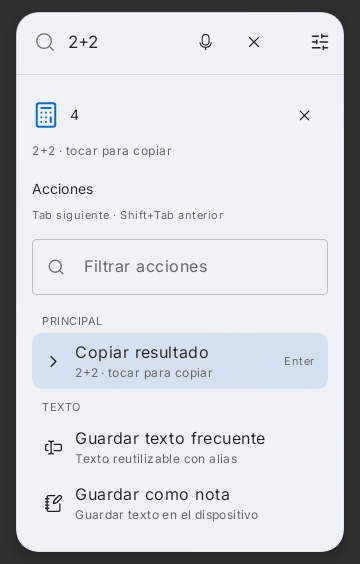
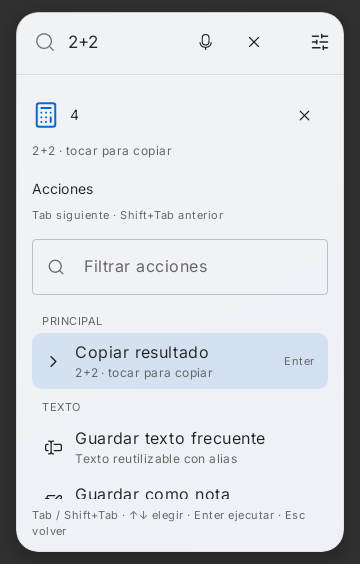
fix: keep contextual actions and keyboard hints inside the preview

Changed region(s): [[0.0917, 0.8741, 0.7639, 0.9645], [0.7944, 0.9043, 0.8556, 0.9344]]

diff --git a/app/src/main/java/dev/bautista/spotlight/ui/ActionPanelView.kt b/app/src/main/java/dev/bautista/spotlight/ui/ActionPanelView.kt
@@ -26,7 +26,7 @@ data class ContextAction(val title:String,val description:String,val icon:ImageV
     val requests=remember(visible.map{it.title}){List(visible.size){if(it==0)focus else FocusRequester()}}
     LaunchedEffect(filter){selected=0}
     LaunchedEffect(selected,filterFocused,visible.map{it.title}){if(!filterFocused){withFrameNanos{ };runCatching{requests.getOrNull(selected)?.requestFocus()}}}
-    Column(Modifier.fillMaxWidth().onPreviewKeyEvent{e->
+    Column(Modifier.fillMaxWidth().heightIn(max=GlassTokens.actionPanelMaxHeight).onPreviewKeyEvent{e->
         if(e.type!=KeyEventType.KeyDown || e.isCtrlPressed || e.isMetaPressed)false else when(e.key){
             Key.Tab->{filterFocused=false;selected=if(visible.isEmpty())0 else Math.floorMod(selected+if(e.isShiftPressed)-1 else 1,visible.size);true}
             Key.DirectionDown->{filterFocused=false;selected=(selected+1).coerceAtMost((visible.size-1).coerceAtLeast(0));true}
@@ -39,7 +39,7 @@ data class ContextAction(val title:String,val description:String,val icon:ImageV
         Text("Tab siguiente · Shift+Tab anterior", style = MaterialTheme.typography.labelSmall,
             color = MaterialTheme.colorScheme.onSurfaceVariant)
         OutlinedTextField(filter,{filter=it.take(120)},label={Text("Filtrar acciones")},singleLine=true,modifier=Modifier.fillMaxWidth().onFocusChanged{filterFocused=it.isFocused},leadingIcon={Icon(CommandIcons.Search,null,Modifier.size(18.dp))})
-        Column(Modifier.fillMaxWidth().heightIn(max=240.dp).verticalScroll(rememberScrollState())){
+        Column(Modifier.fillMaxWidth().weight(1f, fill=false).heightIn(max=240.dp).verticalScroll(rememberScrollState())){
             var previous=""
             visible.forEachIndexed{i,action->
                 val group=if(all.firstOrNull()==action)"Principal" else action.group

diff --git a/app/src/test/java/dev/bautista/spotlight/ui/QuickLookTouchTargetTest.kt b/app/src/test/java/dev/bautista/spotlight/ui/QuickLookTouchTargetTest.kt
@@ -47,8 +47,11 @@ class QuickLookTouchTargetTest {
         ui.onNode(hasSetTextAction()).performKeyInput { pressKey(Key.Tab) }
         ui.waitUntil(15000) { ui.onAllNodesWithContentDescription("Cerrar vista rápida").fetchSemanticsNodes().isNotEmpty() }
         ui.waitForIdle()
+        ui.onNodeWithText("Copiar resultado").assertIsDisplayed()
+        ui.onNodeWithText("Tab / Shift+Tab · ↑↓ elegir · Enter ejecutar · Esc volver").assertIsDisplayed()
         ui.onRoot().captureRoboImage("build/091-ui/f2-close-$device.png",
             roborazziOptions = RoborazziOptions(taskType = RoborazziTaskType.Record))
+        ui.onNodeWithText("Guardar como nota").performScrollTo().assertIsDisplayed()
         ui.onNodeWithContentDescription("Cerrar vista rápida")
             .assertWidthIsAtLeast(48.dp).assertHeightIsAtLeast(48.dp)
             .performTouchInput { click(Offset(4f, center.y)) }

diff --git a/app/src/main/java/dev/bautista/spotlight/ui/GlassTokens.kt b/app/src/main/java/dev/bautista/spotlight/ui/GlassTokens.kt
@@ -13,6 +13,7 @@ import dev.bautista.spotlight.data.Config
 
 object GlassTokens {
     val small=8.dp;val gap=12.dp;val inset=18.dp;val hit=48.dp
+    val actionPanelMaxHeight=360.dp
     const val selectionMs=90
     fun selectionDuration(c:Config)=when(c.movement){"precise"->55;"liquid_immersive"->125;else->90}
     fun opacity(c:Config)=if(c.preset in setOf("raycast","pure","graphite","hybrid"))1f else c.opacity.coerceIn(.90f,1f)

diff --git a/docs/visual/f2-touch/README.md b/docs/visual/f2-touch/README.md
@@ -9,3 +9,7 @@ Prueba RED con fuente876f7cb: dos tests nativos Robolectric API33 fallan con `Ac
 Las capturas son fixtures sintéticos tablet horizontal1280×800 y teléfono vertical390×844, tema claro; no validación física en Android16/OneUI ni prueba del renderizador PDF. Comparadores antes/después y resultado integral se registran en progreso/notas al cerrar. No actualizar referencias existentes para ocultar diferencias; revisar cualquier cambio intencional.
 
 GREEN focalizado: dos tests nuevos y KeyboardHintsTest correctos. El primer intento tocaba la esquina fuera del círculo y el siguiente tenía un error de compilación del fixture; corregidos sin eliminar assertions ni ampliar plazos. Diferencias revisadas: encabezado20dp más alto, icono17dp intacto y contenido desplazado dentro del panel, consulta/resultados izquierdos intactos. El hint superior Tab/Shift+Tab permanece visible; el hint duplicado inferior puede quedar fuera del viewport limitado del fixture. No se declara mejora de rendimiento.
+
+Corrección durante revisión: el cambio inicial recortaba el hint inferior. `weight` solo, en una altura no acotada, dejaba lista vacía; descartado. Panel acotado a360dp por token central, lista desplazable con máximo240dp repartiendo espacio restante; ambos hints y acción principal visibles. Tests reforzados con visibilidad de acción/hint y scroll hasta Guardar como nota. No se acepta el recorte previo como baseline.
+
+Comparación final previa a actualización:17 tests,1 diferencia intencional en tablet-context-panel. Revisada manualmente (compare PNG y baseline-review.json), únicamente derecha x664–1248, tamaño1280×564 idéntico;16 referencias intactas. Se actualiza SOLO esa imagen para reflejar48dp y lista adaptable; revalidación pendiente en este checkpoint.
